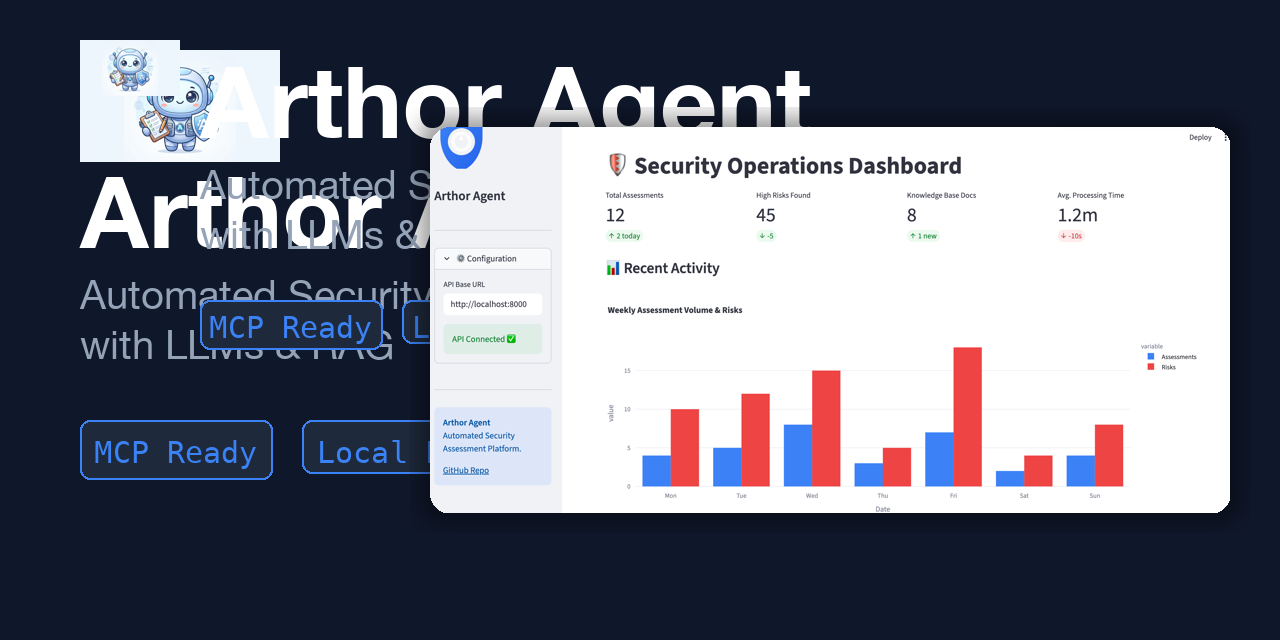
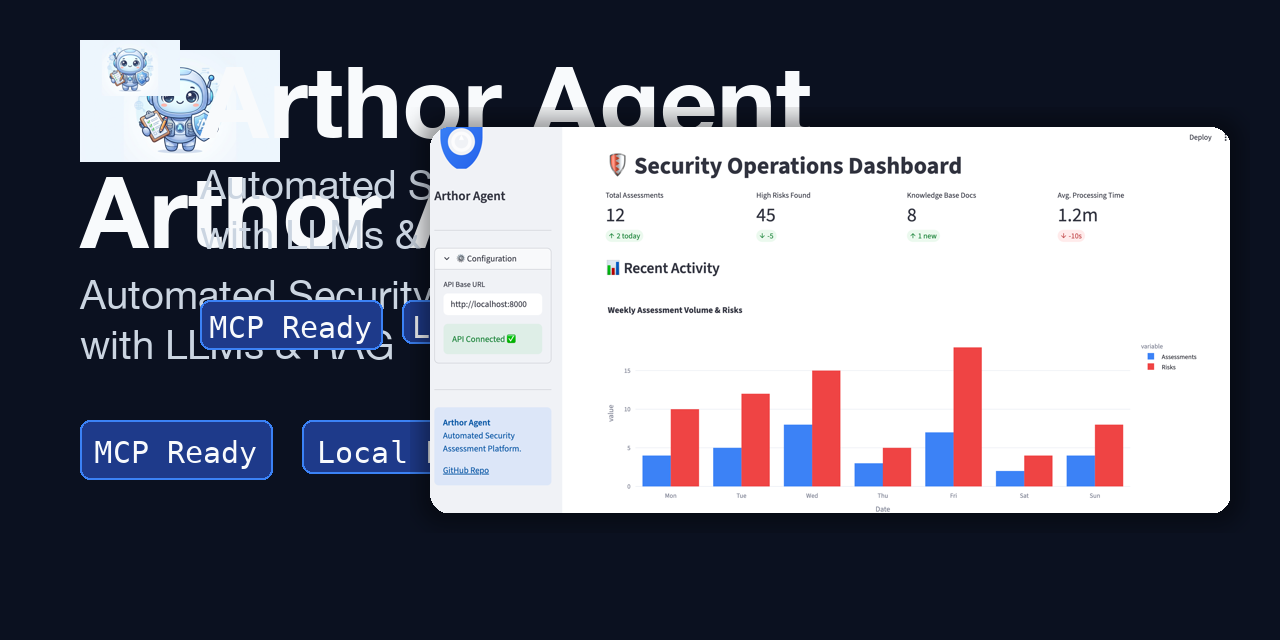
style: improve social preview image contrast and readability

diff --git a/scripts/generate_social_preview.py b/scripts/generate_social_preview.py
@@ -4,9 +4,12 @@ from PIL import Image, ImageDraw, ImageFont, ImageOps, ImageFilter
 def create_social_preview():
     # Configuration
     WIDTH, HEIGHT = 1280, 640
-    BG_COLOR = "#0f172a"  # Dark Slate
-    TEXT_COLOR = "#ffffff"
-    ACCENT_COLOR = "#3b82f6"  # Blue
+    # Use a high-contrast gradient or solid dark background
+    BG_COLOR = "#0B1120"  # Very Dark Slate (almost black)
+    TEXT_COLOR = "#F8FAFC" # Slate 50 (Very bright white)
+    SUBTITLE_COLOR = "#CBD5E1" # Slate 300 (Light grey)
+    ACCENT_COLOR = "#3B82F6"  # Blue 500 (Vibrant Blue)
+    ACCENT_BG = "#1E3A8A" # Blue 900 (Dark Blue for tags)
     
     # Paths
     base_dir = os.path.dirname(os.path.dirname(os.path.abspath(__file__)))
@@ -44,11 +47,11 @@ def create_social_preview():
     # Draw Title
     draw.text((80, 150), "Arthor Agent", font=title_font, fill=TEXT_COLOR)
     
-    # Draw Subtitle
-    draw.text((80, 270), "Automated Security Assessment", font=subtitle_font, fill="#94a3b8")
-    draw.text((80, 320), "with LLMs & RAG", font=subtitle_font, fill="#94a3b8")
+    # Draw Subtitle - Improved contrast
+    draw.text((80, 270), "Automated Security Assessment", font=subtitle_font, fill=SUBTITLE_COLOR)
+    draw.text((80, 320), "with LLMs & RAG", font=subtitle_font, fill=SUBTITLE_COLOR)
     
-    # Draw Tags/Badges (Simulated)
+    # Draw Tags/Badges (Simulated) - High contrast style
     tags = ["MCP Ready", "Local LLM", "Python"]
     tag_x = 80
     tag_y = 420
@@ -57,8 +60,10 @@ def create_social_preview():
         bbox = draw.textbbox((tag_x, tag_y), tag, font=tag_font)
         padding = 15
         pill_box = (tag_x, tag_y, tag_x + (bbox[2]-bbox[0]) + padding*2, tag_y + (bbox[3]-bbox[1]) + padding*2)
-        draw.rounded_rectangle(pill_box, radius=10, fill="#1e293b", outline=ACCENT_COLOR, width=2)
-        draw.text((tag_x + padding, tag_y + padding), tag, font=tag_font, fill=ACCENT_COLOR)
+        # Use ACCENT_BG for fill to make text pop
+        draw.rounded_rectangle(pill_box, radius=10, fill=ACCENT_BG, outline=ACCENT_COLOR, width=2)
+        # Use TEXT_COLOR (White) for text instead of accent color for better readability
+        draw.text((tag_x + padding, tag_y + padding), tag, font=tag_font, fill=TEXT_COLOR)
         tag_x += (bbox[2]-bbox[0]) + padding*2 + 30
 
     # Draw Mascot (if exists)
@@ -82,8 +87,8 @@ def create_social_preview():
             # Adjust Text Positions
             draw.text((200, 40), "Arthor Agent", font=title_font, fill=TEXT_COLOR)
             # Reset subtitle positions
-            draw.text((200, 160), "Automated Security Assessment", font=subtitle_font, fill="#94a3b8")
-            draw.text((200, 210), "with LLMs & RAG", font=subtitle_font, fill="#94a3b8")
+            draw.text((200, 160), "Automated Security Assessment", font=subtitle_font, fill=SUBTITLE_COLOR)
+            draw.text((200, 210), "with LLMs & RAG", font=subtitle_font, fill=SUBTITLE_COLOR)
             
             # Reset tags
             tag_x = 200
@@ -92,8 +97,8 @@ def create_social_preview():
                 bbox = draw.textbbox((tag_x, tag_y), tag, font=tag_font)
                 padding = 10
                 pill_box = (tag_x, tag_y, tag_x + (bbox[2]-bbox[0]) + padding*2, tag_y + (bbox[3]-bbox[1]) + padding*2)
-                draw.rounded_rectangle(pill_box, radius=10, fill="#1e293b", outline=ACCENT_COLOR, width=2)
-                draw.text((tag_x + padding, tag_y + padding), tag, font=tag_font, fill=ACCENT_COLOR)
+                draw.rounded_rectangle(pill_box, radius=10, fill=ACCENT_BG, outline=ACCENT_COLOR, width=2)
+                draw.text((tag_x + padding, tag_y + padding), tag, font=tag_font, fill=TEXT_COLOR)
                 tag_x += (bbox[2]-bbox[0]) + padding*2 + 20
                 
         except Exception as e:
